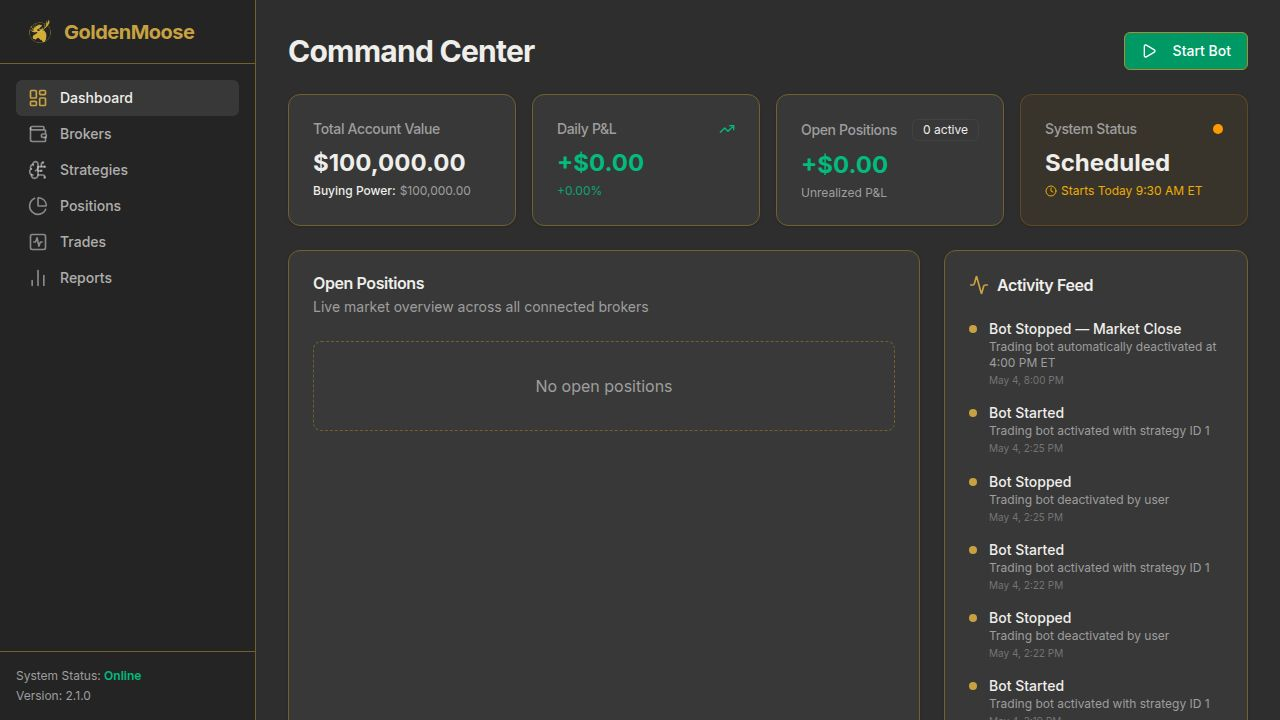
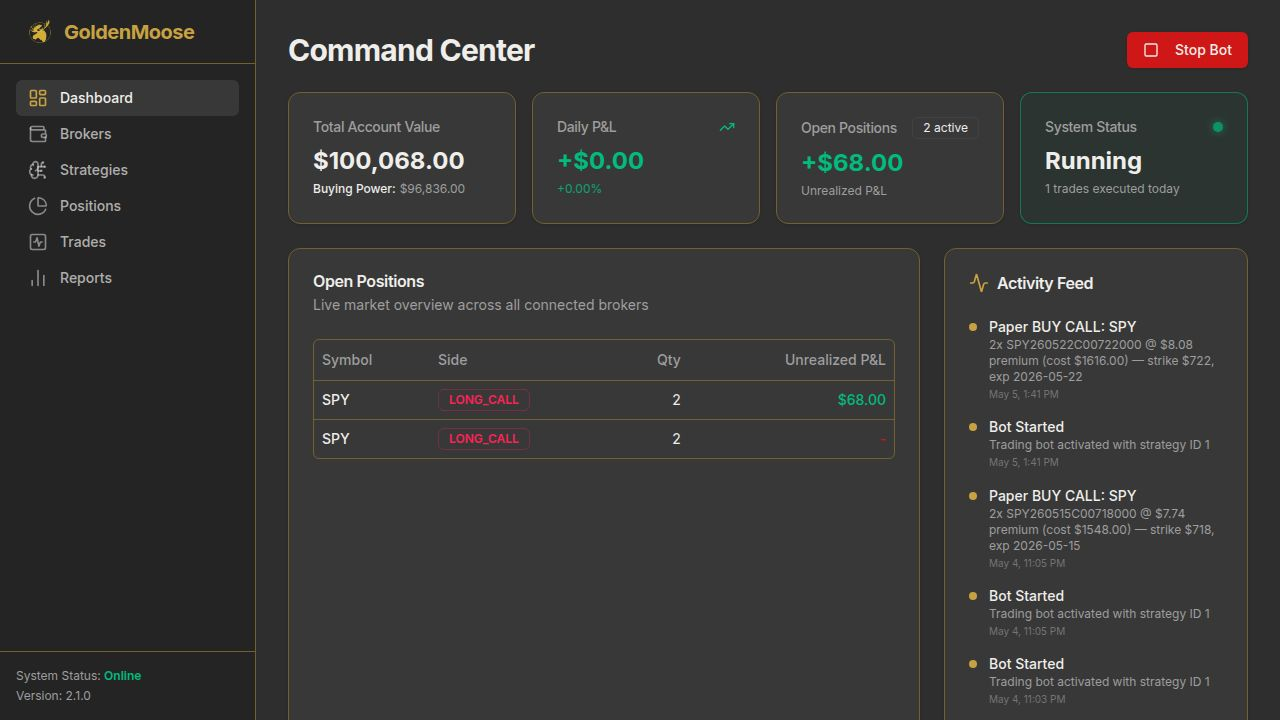
Allow multiple concurrent options trades and enable day trading
Update paper trading logic to support multiple concurrent options positions up to a defined limit, implement direction-flipping for day trading, and refine stop-loss/take-profit checks for individual positions.

Replit-Commit-Author: Agent
Replit-Commit-Session-Id: aadbeaf0-055d-4930-80ef-e783a1fe98ad
Replit-Commit-Checkpoint-Type: full_checkpoint
Replit-Commit-Event-Id: f3bae9ff-432d-484b-887e-5edd65a3bbf2
Replit-Commit-Screenshot-Url: https://storage.googleapis.com/screenshot-production-us-central1/a207f436-3b04-410e-838e-0ed2e0a93579/aadbeaf0-055d-4930-80ef-e783a1fe98ad/CZzfslR
Replit-Helium-Checkpoint-Created: true

diff --git a/artifacts/api-server/src/lib/scheduler.ts b/artifacts/api-server/src/lib/scheduler.ts
@@ -9,10 +9,11 @@ import {
   executePaperBuy,
   executePaperSell,
   executePaperBuyOption,
-  executePaperSellOption,
+  executePaperSellOptionById,
+  getAllOpenOptionsPositions,
   checkStopLossTakeProfit,
-  checkOptionsStopLossTakeProfit,
   updatePaperPositionPrices,
+  MAX_CONCURRENT_OPTIONS,
 } from "./paperTrading";
 
 const ET_TZ = "America/New_York";
@@ -58,7 +59,24 @@ export async function refreshSchedule() {
   logger.info({ nextStart: nextStart.toISOString(), nextStop: adjustedStop.toISOString() }, "Schedule refreshed");
 }
 
+// ─── Shared state updater ────────────────────────────────────────────────
+
+async function incrementBotCounters(tradesCount: number, pnlDelta: number) {
+  const [s] = await db.select().from(botStateTable).limit(1);
+  if (!s) return;
+  await db.update(botStateTable).set({
+    tradesExecutedToday: (s.tradesExecutedToday ?? 0) + tradesCount,
+    dailyPnl: String(parseFloat(s.dailyPnl ?? "0") + pnlDelta),
+  }).where(eq(botStateTable.id, s.id));
+}
+
 // ─── Options trading cycle ───────────────────────────────────────────────
+//
+// Supports:
+//   • Multiple concurrent positions (up to MAX_CONCURRENT_OPTIONS)
+//   • Direction flip (day trade): close opposite-side positions when trend reverses
+//   • Per-position stop-loss / take-profit checked every cycle
+//
 
 async function runOptionsCycle(
   brokerId: number,
@@ -67,6 +85,7 @@ async function runOptionsCycle(
   takeProfitPercent: number,
   maxPositionUsd: number,
 ): Promise<void> {
+  // ── 1. Fetch live SPY data ──────────────────────────────────────────────
   const data = await fetchMarketData("SPY");
   if (!data) {
     await logBot("warn", "[SKIP] SPY — could not fetch market data", "data_error", "SPY");
@@ -80,68 +99,113 @@ async function runOptionsCycle(
     data.trendCondition ? `Trend:${data.trendCondition}` : null,
   ].filter(Boolean).join(" ");
 
-  // ── Check stop-loss / take-profit on existing options position ──
-  // We need current option premium — fetch from options chain
-  const chainForSL = await fetchSpyOptionsChain(data.currentPrice);
-  if (chainForSL) {
-    // Find current premium for existing position optionType
-    const callPremium = chainForSL.call?.midPrice ?? chainForSL.call?.lastPrice ?? 0;
-    const putPremium = chainForSL.put?.midPrice ?? chainForSL.put?.lastPrice ?? 0;
-    const avgPremium = (callPremium + putPremium) / 2;
+  // ── 2. Fetch options chain (used for SL/TP prices + new entry) ──────────
+  const chain = await fetchSpyOptionsChain(data.currentPrice);
+  const callPremium = chain?.call?.midPrice ?? chain?.call?.lastPrice ?? 0;
+  const putPremium = chain?.put?.midPrice ?? chain?.put?.lastPrice ?? 0;
 
-    const trigger = await checkOptionsStopLossTakeProfit(brokerId, strategyId, avgPremium, stopLossPercent, takeProfitPercent);
+  // ── 3. Check SL/TP on every open position ──────────────────────────────
+  const openPositions = await getAllOpenOptionsPositions(brokerId, strategyId);
+
+  for (const pos of openPositions) {
+    const isCall = pos.optionType === "call" || pos.side === "long_call";
+    // Use the current ATM premium for the matching direction as a proxy price
+    const currentPremium = isCall ? callPremium : putPremium;
+
+    if (currentPremium <= 0) continue;
+
+    const entryPrice = parseFloat(pos.entryPrice);
+    const changePct = entryPrice > 0 ? ((currentPremium - entryPrice) / entryPrice) * 100 : 0;
+
+    let trigger: "stop_loss" | "take_profit" | null = null;
+    if (changePct <= -stopLossPercent) trigger = "stop_loss";
+    else if (changePct >= takeProfitPercent) trigger = "take_profit";
+
     if (trigger) {
       const label = trigger === "stop_loss" ? "STOP-LOSS" : "TAKE-PROFIT";
-      const result = await executePaperSellOption(brokerId, strategyId, avgPremium);
+      const result = await executePaperSellOptionById(brokerId, pos.id, currentPremium);
       if (result.executed) {
         const pnlStr = result.realizedPnl >= 0 ? `+$${result.realizedPnl.toFixed(2)}` : `-$${Math.abs(result.realizedPnl).toFixed(2)}`;
-        await logBot("info", `[${label}] SPY option ${result.contractSymbol} — P&L: ${pnlStr}`, "sell", "SPY");
+        await logBot("info", `[${label}] ${result.contractSymbol} closed @ $${currentPremium.toFixed(2)} — P&L: ${pnlStr}`, "sell", "SPY");
         await db.insert(activityTable).values({
           type: "trade_closed",
-          title: `${label}: SPY option closed`,
-          description: `${result.contractSymbol} closed at $${avgPremium.toFixed(2)} premium — P&L: ${pnlStr}`,
+          title: `${label}: ${isCall ? "CALL" : "PUT"} closed`,
+          description: `${result.contractSymbol} @ $${currentPremium.toFixed(2)} premium — P&L: ${pnlStr}`,
         });
-        const [s] = await db.select().from(botStateTable).limit(1);
-        if (s) {
-          await db.update(botStateTable).set({
-            tradesExecutedToday: (s.tradesExecutedToday ?? 0) + 1,
-            dailyPnl: String(parseFloat(s.dailyPnl ?? "0") + result.realizedPnl),
-          }).where(eq(botStateTable.id, s.id));
-        }
+        await incrementBotCounters(1, result.realizedPnl);
       }
-      return;
     }
   }
 
-  // ── Determine trade direction from SPY trend ──
+  // ── 4. Determine direction signal ──────────────────────────────────────
   const trend = data.trendCondition;
   const rsi = data.rsi ?? 50;
-  const rsiOk = trend === "bullish" ? rsi < 72 : rsi > 28;
 
+  // Relaxed RSI gates for day trading (72→78 / 28→22)
   let direction: "call" | "put" | null = null;
   let reason = "";
 
-  if (trend === "bullish" && rsiOk) {
+  if (trend === "bullish" && rsi < 78) {
     direction = "call";
     reason = `SPY bullish (MA:${data.maCondition}, RSI:${rsi.toFixed(1)}) — buy CALL`;
-  } else if (trend === "bearish" && rsiOk) {
+  } else if (trend === "bearish" && rsi > 22) {
     direction = "put";
     reason = `SPY bearish (MA:${data.maCondition}, RSI:${rsi.toFixed(1)}) — buy PUT`;
   } else {
-    await logBot("info", `[LIVE] SPY @ $${data.currentPrice.toFixed(2)} [${indicators}] → HOLD — ${trend === "neutral" ? "neutral trend" : `RSI extreme (${rsi.toFixed(1)})`}`, "hold", "SPY");
+    await logBot(
+      "info",
+      `[LIVE] SPY @ $${data.currentPrice.toFixed(2)} [${indicators}] → HOLD — ${trend === "neutral" ? "neutral trend" : `RSI extreme (${rsi.toFixed(1)})`}`,
+      "hold",
+      "SPY",
+    );
     return;
   }
 
-  // ── Fetch options chain and execute ──
-  const chain = await fetchSpyOptionsChain(data.currentPrice);
+  // ── 5. Direction flip — close opposite positions (day trade) ────────────
+  const oppositeType = direction === "call" ? "put" : "call";
+  const afterSlTp = await getAllOpenOptionsPositions(brokerId, strategyId);
+
+  for (const pos of afterSlTp) {
+    const posType = pos.optionType ?? (pos.side === "long_call" ? "call" : "put");
+    if (posType !== oppositeType) continue;
+
+    // Use the opposite-direction premium for the closing price
+    const closePremium = direction === "call" ? putPremium : callPremium;
+    if (closePremium <= 0) continue;
+
+    const result = await executePaperSellOptionById(brokerId, pos.id, closePremium);
+    if (result.executed) {
+      const pnlStr = result.realizedPnl >= 0 ? `+$${result.realizedPnl.toFixed(2)}` : `-$${Math.abs(result.realizedPnl).toFixed(2)}`;
+      await logBot(
+        "info",
+        `[FLIP] Closing ${oppositeType.toUpperCase()} ${result.contractSymbol} @ $${closePremium.toFixed(2)} — P&L: ${pnlStr} (trend reversed to ${direction})`,
+        "sell",
+        "SPY",
+      );
+      await db.insert(activityTable).values({
+        type: "trade_closed",
+        title: `Direction Flip: ${oppositeType.toUpperCase()} → ${direction.toUpperCase()}`,
+        description: `${result.contractSymbol} closed @ $${closePremium.toFixed(2)} — P&L: ${pnlStr}`,
+      });
+      await incrementBotCounters(1, result.realizedPnl);
+    }
+  }
+
+  // ── 6. Open a new position if below the concurrent limit ────────────────
   if (!chain) {
-    await logBot("warn", "Could not fetch SPY options chain — skipping", "data_error", "SPY");
+    await logBot("warn", "Could not fetch SPY options chain — skipping entry", "data_error", "SPY");
     return;
   }
 
   const contract = direction === "call" ? chain.call : chain.put;
   if (!contract) {
     await logBot("warn", `No ATM ${direction} found in SPY options chain`, "data_error", "SPY");
+    return;
+  }
+
+  const currentOpen = await getAllOpenOptionsPositions(brokerId, strategyId);
+  if (currentOpen.length >= MAX_CONCURRENT_OPTIONS) {
+    await logBot("info", `[SKIP] Max concurrent positions (${MAX_CONCURRENT_OPTIONS}) reached`, "hold", "SPY");
     return;
   }
 
@@ -167,10 +231,8 @@ async function runOptionsCycle(
     }
   }
 
-  // Update position price
-  if (contract.midPrice > 0) {
-    await updatePaperPositionPrices(brokerId, { SPY: contract.midPrice });
-  }
+  // Update all position prices with current market data
+  await updatePaperPositionPrices(brokerId, { SPY: contract.midPrice });
 }
 
 // ─── Stock trading cycle ─────────────────────────────────────────────────

diff --git a/artifacts/api-server/src/lib/paperTrading.ts b/artifacts/api-server/src/lib/paperTrading.ts
@@ -6,6 +6,7 @@ import type { OptionsContract } from "./marketData";
 export const PAPER_BROKER_TYPE = "paper";
 const PAPER_STARTING_CASH = 100_000;
 const OPTIONS_MULTIPLIER = 100; // 1 contract = 100 shares
+export const MAX_CONCURRENT_OPTIONS = 5;
 
 export async function ensurePaperBroker(): Promise<number> {
   const [existing] = await db
@@ -174,6 +175,24 @@ export async function executePaperSell(
 
 // ─── Options paper trading ────────────────────────────────────────────────
 
+/** Return all open options positions for a given broker + strategy */
+export async function getAllOpenOptionsPositions(brokerId: number, strategyId: number) {
+  return db
+    .select()
+    .from(positionsTable)
+    .where(
+      and(
+        eq(positionsTable.brokerId, brokerId),
+        eq(positionsTable.strategyId, strategyId),
+        eq(positionsTable.assetType, "options"),
+      ),
+    );
+}
+
+/**
+ * Open a new paper options position.
+ * Allows multiple concurrent positions up to MAX_CONCURRENT_OPTIONS.
+ */
 export async function executePaperBuyOption(
   brokerId: number,
   strategyId: number,
@@ -195,21 +214,17 @@ export async function executePaperBuyOption(
     return { executed: false, contracts: 0, cost: 0, contractSymbol: contract.contractSymbol };
   }
 
-  // Only one options position per strategy at a time
-  const [existing] = await db
-    .select()
-    .from(positionsTable)
-    .where(
-      and(
-        eq(positionsTable.brokerId, brokerId),
-        eq(positionsTable.symbol, "SPY"),
-        eq(positionsTable.strategyId, strategyId),
-        eq(positionsTable.assetType, "options"),
-      ),
-    );
+  // Enforce max concurrent positions
+  const openPositions = await getAllOpenOptionsPositions(brokerId, strategyId);
+  if (openPositions.length >= MAX_CONCURRENT_OPTIONS) {
+    logger.info({ open: openPositions.length, max: MAX_CONCURRENT_OPTIONS }, "Max concurrent options positions reached — skipping");
+    return { executed: false, contracts: 0, cost: 0, contractSymbol: contract.contractSymbol };
+  }
 
-  if (existing) {
-    logger.info({ symbol: "SPY" }, "Options position already open — skipping paper buy");
+  // Don't duplicate an identical contract already held
+  const alreadyHeld = openPositions.some((p) => p.contractSymbol === contract.contractSymbol);
+  if (alreadyHeld) {
+    logger.info({ contractSymbol: contract.contractSymbol }, "Identical contract already held — skipping");
     return { executed: false, contracts: 0, cost: 0, contractSymbol: contract.contractSymbol };
   }
 
@@ -260,22 +275,16 @@ export async function executePaperBuyOption(
   return { executed: true, contracts, cost: totalCost, contractSymbol: contract.contractSymbol };
 }
 
-export async function executePaperSellOption(
+/**
+ * Close a specific open options position by its position ID.
+ * Used for per-position SL/TP checks and direction flips.
+ */
+export async function executePaperSellOptionById(
   brokerId: number,
-  strategyId: number,
+  positionId: number,
   currentPremium: number,
 ): Promise<{ executed: boolean; realizedPnl: number; realizedPnlPercent: number; contractSymbol: string }> {
-  const [position] = await db
-    .select()
-    .from(positionsTable)
-    .where(
-      and(
-        eq(positionsTable.brokerId, brokerId),
-        eq(positionsTable.symbol, "SPY"),
-        eq(positionsTable.strategyId, strategyId),
-        eq(positionsTable.assetType, "options"),
-      ),
-    );
+  const [position] = await db.select().from(positionsTable).where(eq(positionsTable.id, positionId));
 
   if (!position) {
     return { executed: false, realizedPnl: 0, realizedPnlPercent: 0, contractSymbol: "" };
@@ -286,7 +295,7 @@ export async function executePaperSellOption(
   const proceeds = contracts * currentPremium * OPTIONS_MULTIPLIER;
   const cost = contracts * entryPrice * OPTIONS_MULTIPLIER;
   const realizedPnl = proceeds - cost;
-  const realizedPnlPercent = ((currentPremium - entryPrice) / entryPrice) * 100;
+  const realizedPnlPercent = entryPrice > 0 ? ((currentPremium - entryPrice) / entryPrice) * 100 : 0;
   const contractSymbol = position.contractSymbol ?? "";
 
   const [openTrade] = await db
@@ -295,9 +304,7 @@ export async function executePaperSellOption(
     .where(
       and(
         eq(tradesTable.brokerId, brokerId),
-        eq(tradesTable.symbol, "SPY"),
-        eq(tradesTable.strategyId, strategyId),
-        eq(tradesTable.assetType, "options"),
+        eq(tradesTable.contractSymbol, contractSymbol),
         eq(tradesTable.status, "open"),
       ),
     );
@@ -315,7 +322,7 @@ export async function executePaperSellOption(
       .where(eq(tradesTable.id, openTrade.id));
   }
 
-  await db.delete(positionsTable).where(eq(positionsTable.id, position.id));
+  await db.delete(positionsTable).where(eq(positionsTable.id, positionId));
 
   const buyingPower = await getPaperBuyingPower(brokerId);
   await db
@@ -323,39 +330,8 @@ export async function executePaperSellOption(
     .set({ buyingPower: String(buyingPower + proceeds) })
     .where(eq(brokersTable.id, brokerId));
 
-  logger.info({ contractSymbol, contracts, proceeds, pnl: realizedPnl, premium: currentPremium }, "Paper SELL OPTION executed");
+  logger.info({ contractSymbol, contracts, proceeds, pnl: realizedPnl, premium: currentPremium }, "Paper SELL OPTION (by ID) executed");
   return { executed: true, realizedPnl, realizedPnlPercent, contractSymbol };
-}
-
-// ─── Options stop-loss / take-profit (on premium %) ──────────────────────
-
-export async function checkOptionsStopLossTakeProfit(
-  brokerId: number,
-  strategyId: number,
-  currentPremium: number,
-  stopLossPercent: number,
-  takeProfitPercent: number,
-): Promise<"stop_loss" | "take_profit" | null> {
-  const [position] = await db
-    .select()
-    .from(positionsTable)
-    .where(
-      and(
-        eq(positionsTable.brokerId, brokerId),
-        eq(positionsTable.symbol, "SPY"),
-        eq(positionsTable.strategyId, strategyId),
-        eq(positionsTable.assetType, "options"),
-      ),
-    );
-
-  if (!position) return null;
-
-  const entryPrice = parseFloat(position.entryPrice);
-  const changePct = ((currentPremium - entryPrice) / entryPrice) * 100;
-
-  if (changePct <= -stopLossPercent) return "stop_loss";
-  if (changePct >= takeProfitPercent) return "take_profit";
-  return null;
 }
 
 // ─── Stock stop-loss / take-profit ────────────────────────────────────────
@@ -405,7 +381,7 @@ export async function updatePaperPositionPrices(
         currentPrice: String(price),
         marketValue: String(marketValue),
         unrealizedPnl: String((price - entry) * qty * multiplier),
-        unrealizedPnlPercent: String(((price - entry) / entry) * 100),
+        unrealizedPnlPercent: String(entry > 0 ? ((price - entry) / entry) * 100 : 0),
       })
       .where(eq(positionsTable.id, pos.id));
   }